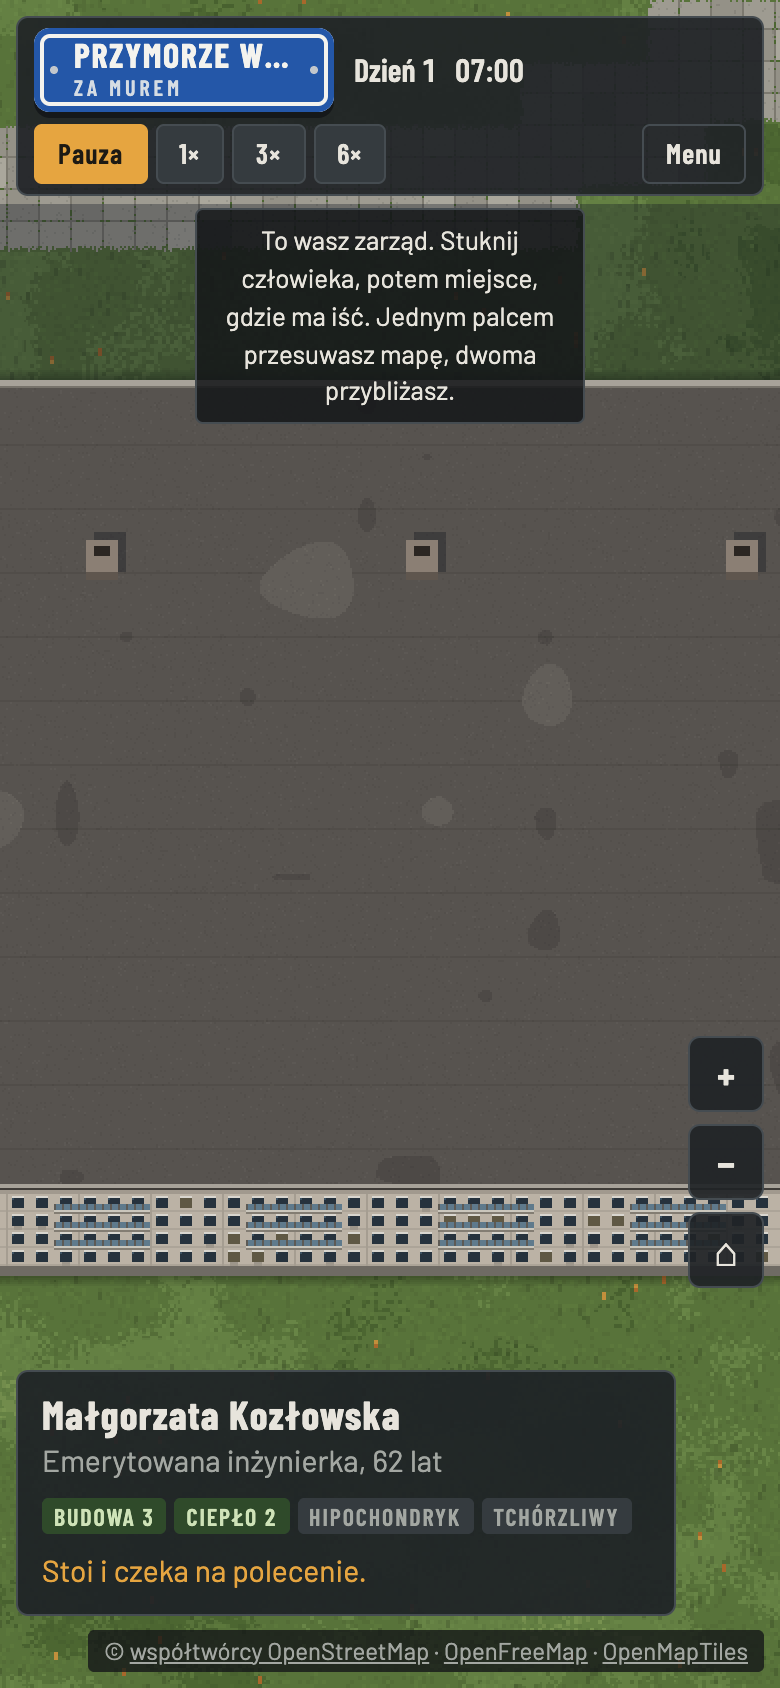
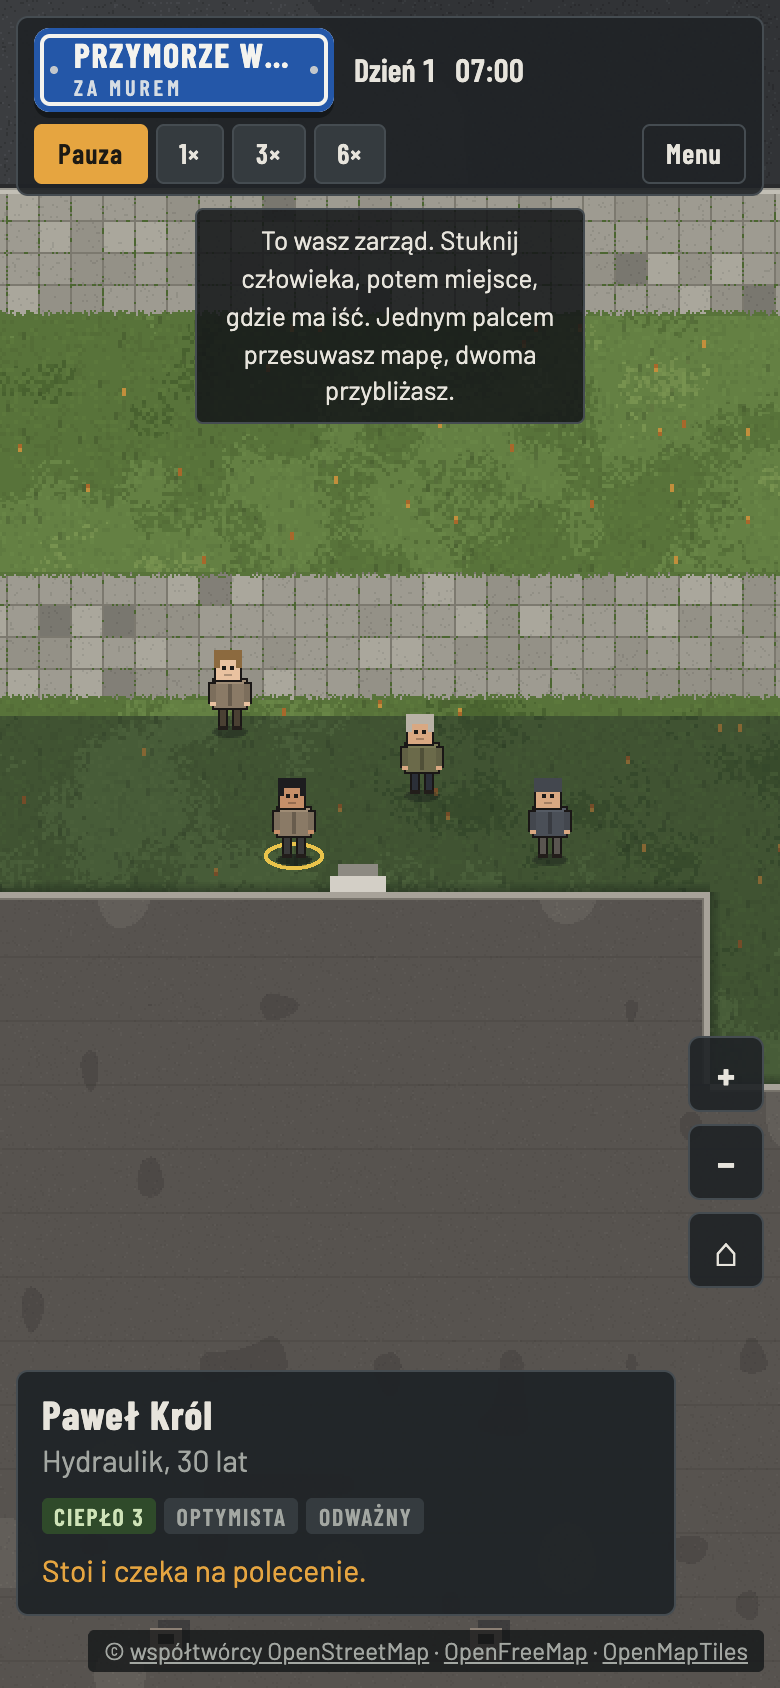
Kamera po starcie na zarząd przy drzwiach siedziby
Zgodnie z „pierwszymi trzema minutami” z GDD: od razu widać ludzi,
a nie dach. Na telefonie zarząd był wcześniej poza kadrem.

diff --git a/src/main.ts b/src/main.ts
@@ -113,15 +113,17 @@ async function enter(data: Loaded) {
   $('osName').textContent = data.name;
   document.title = `Za Murem · ${data.name}`;
   const hq = world.buildings[world.hq];
-  const hx = ((hq.x0 + hq.x1 + 1) / 2) * TILE;
-  const hy = ((hq.y0 + hq.y1 + 1) / 2) * TILE;
+  // kamera na drzwi siedziby, przy których stoi zarząd (środek rdzenia)
+  const core = st.pawns.filter((p) => p.kind === 'core');
+  const hx = core.length ? (core.reduce((a, p) => a + p.x, 0) / core.length) * TILE : ((hq.x0 + hq.x1 + 1) / 2) * TILE;
+  const hy = core.length ? (core.reduce((a, p) => a + p.y, 0) / core.length) * TILE : ((hq.y0 + hq.y1 + 1) / 2) * TILE;
   const cam = params.get('cam');
   if (cam) {
     // cam=x,y,zoom w kafelkach albo cam=hq,zoom (siedziba) albo cam=all (całe osiedle)
     const parts = cam.split(',');
     if (parts[0] === 'all')
       Object.assign(view.cam, { x: (world.size * TILE) / 2, y: (world.size * TILE) / 2, zoom: view.minZoom });
-    else if (parts[0] === 'hq') Object.assign(view.cam, { x: hx, y: hy + 120, zoom: Number(parts[1]) || 1 });
+    else if (parts[0] === 'hq') Object.assign(view.cam, { x: hx, y: hy, zoom: Number(parts[1]) || 1 });
     else {
       const [x, y, z] = parts.map(Number);
       Object.assign(view.cam, { x: x * TILE, y: y * TILE, zoom: z || 1 });
@@ -129,7 +131,7 @@ async function enter(data: Loaded) {
   } else {
     // najpierw całe osiedle, potem zjazd do siedziby
     Object.assign(view.cam, { x: (world.size * TILE) / 2, y: (world.size * TILE) / 2, zoom: view.minZoom });
-    flyTo(hx, hy + 120, 1, 2400);
+    flyTo(hx, hy, 1, 2400);
   }
   if (params.has('speed')) speed = Number(params.get('speed'));
   const first = st.pawns[0];
